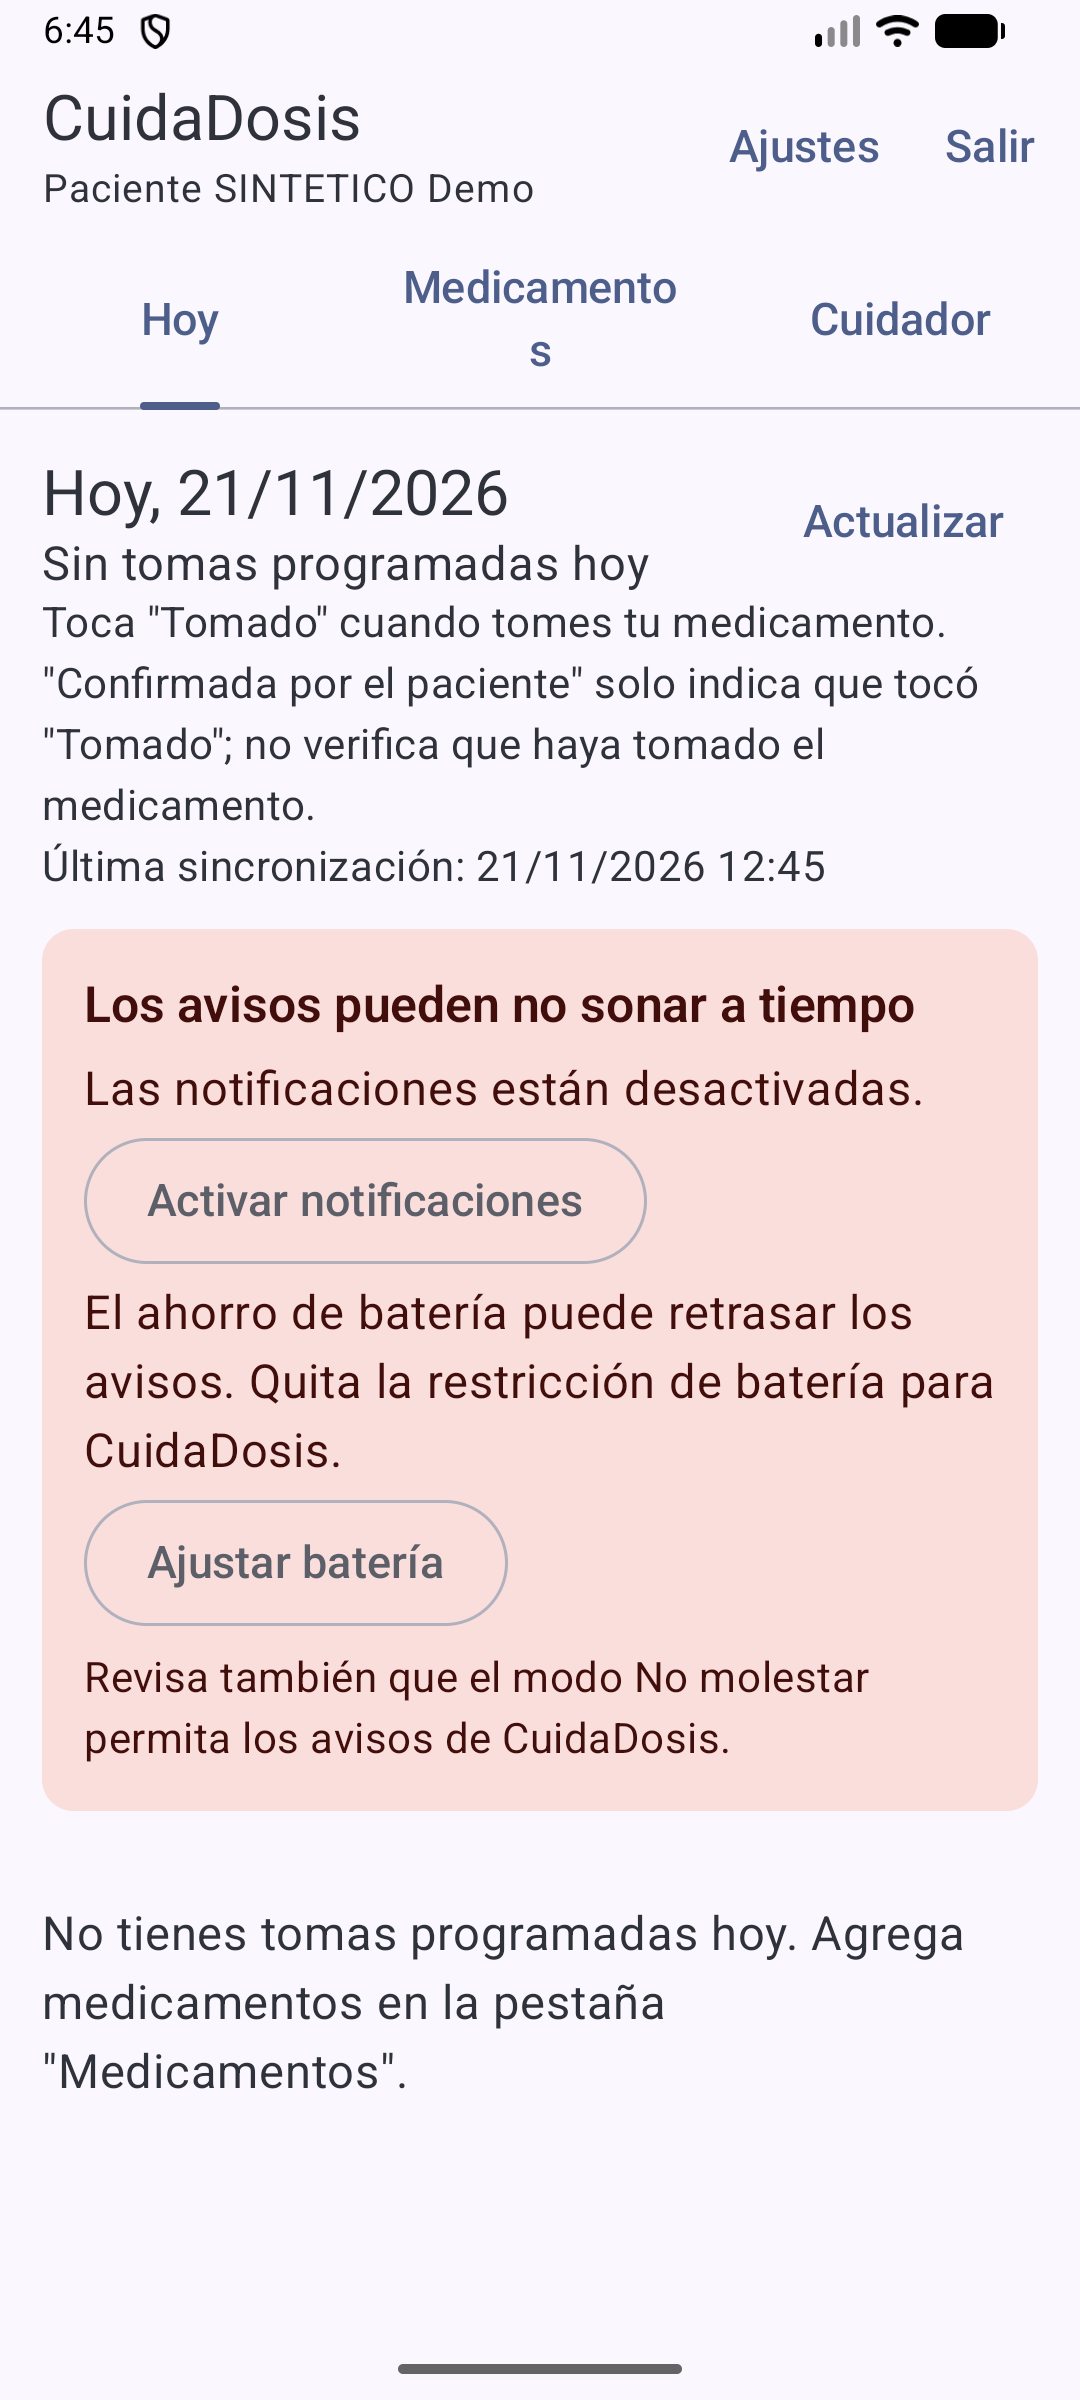
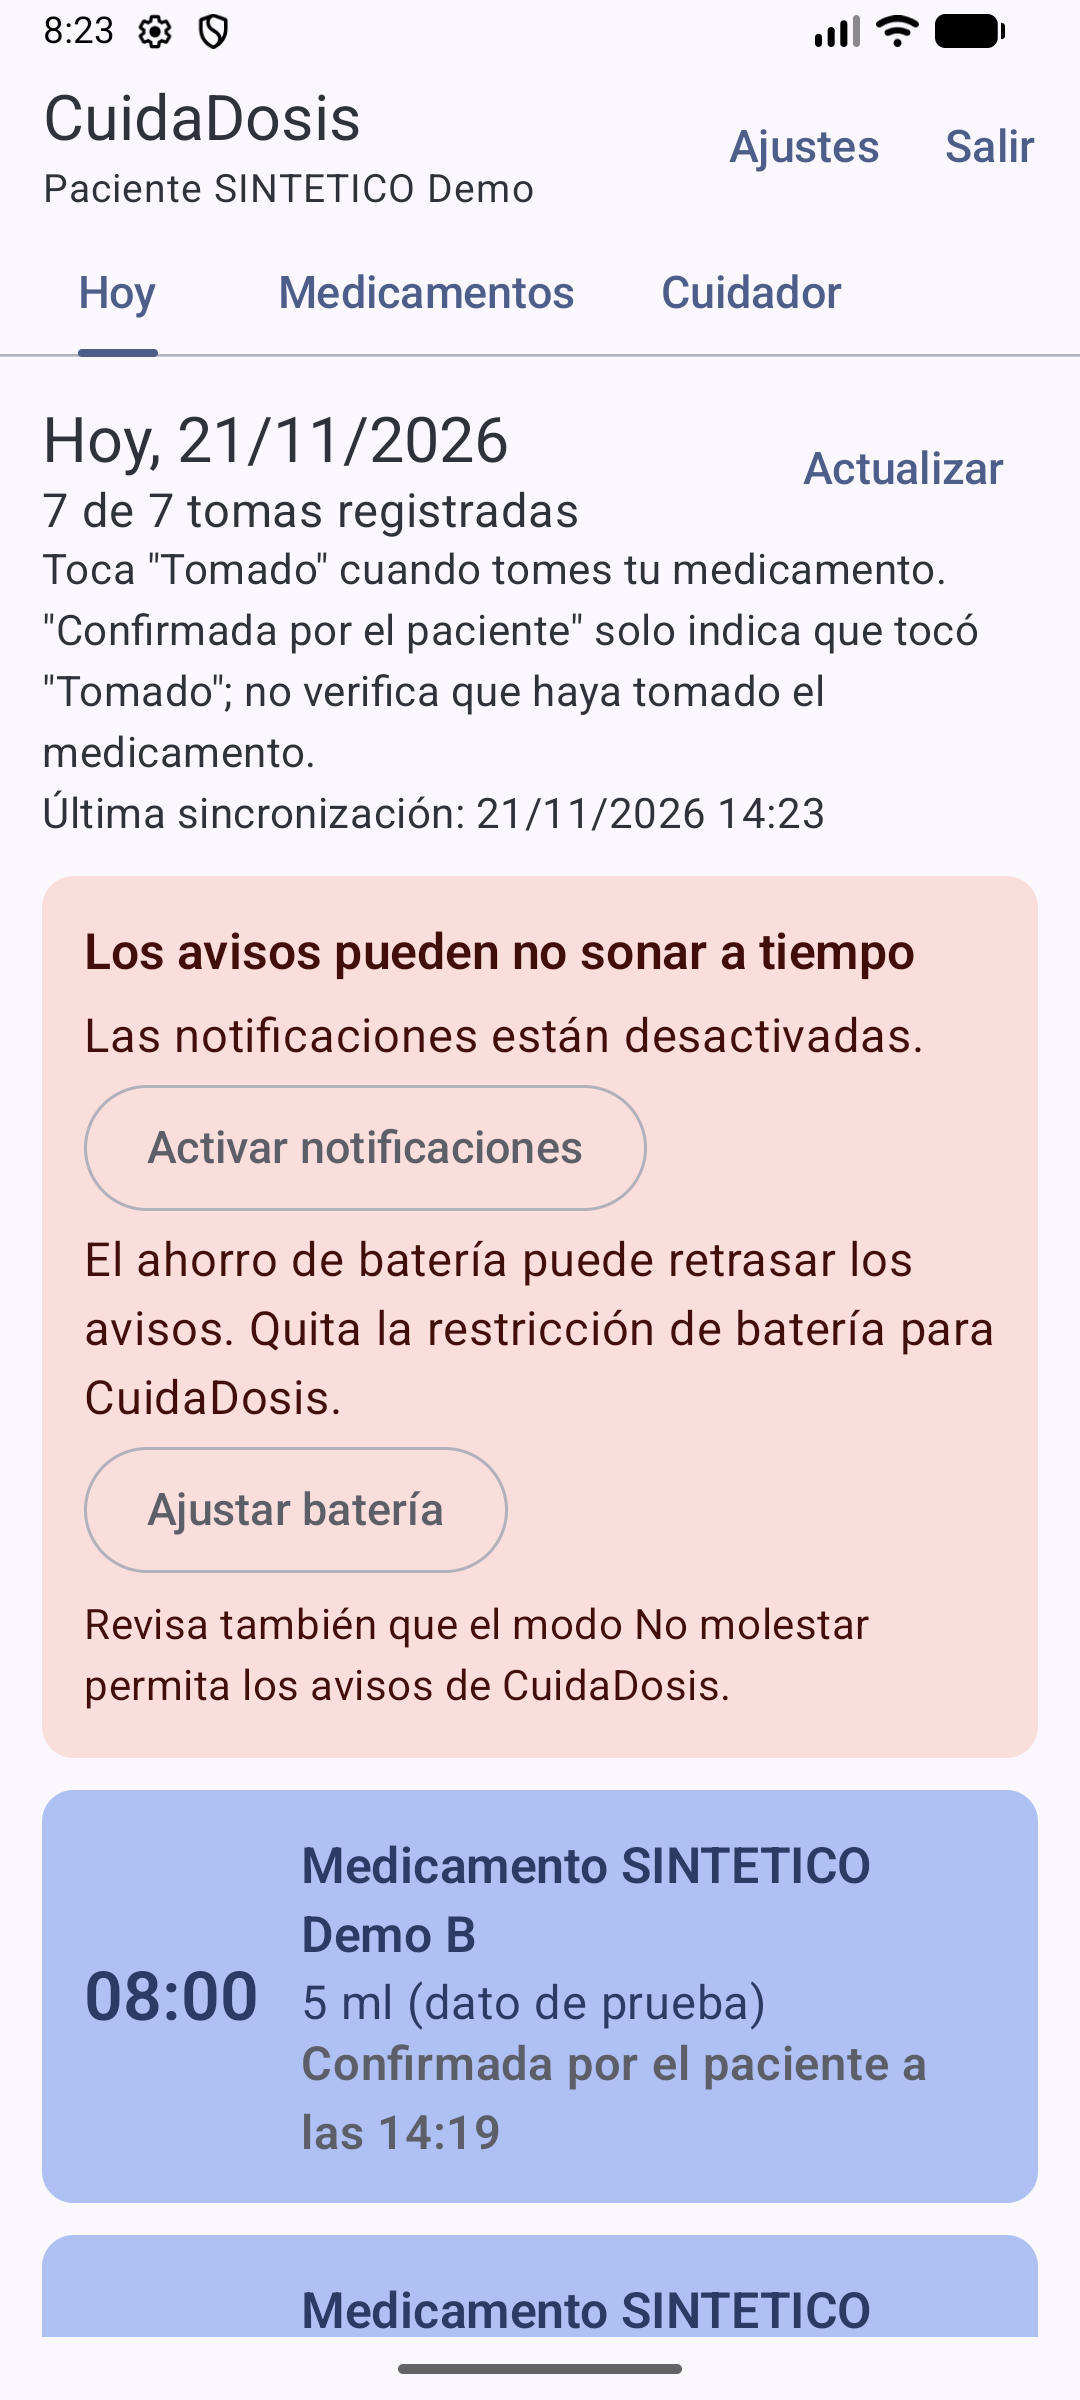
docs(fase8): vuelve a tomar las capturas con la pestaña Medicamentos corregida

diff --git a/docs/evidencias/p4/INDICE.md b/docs/evidencias/p4/INDICE.md
@@ -46,6 +46,7 @@ Script: `api/tests/run_api_tests.php` (casos API-01 a API-27: registro y sesión
 | `15b_letra_grande_cuidador.png` | Detalle del cuidador con la letra del sistema al 130 % |
 | `15c_alarma_cuidador.png` | Notificación de la alarma del cuidador a T + 30 |
 | `16_ultima_sincronizacion.png` | Lista del cuidador con la última sincronización |
-| `17_modo_sin_red.png` | "Hoy" en modo avión con 3 confirmaciones por enviar |
+| `17_modo_sin_red.png` | "Hoy" en modo avión con confirmaciones por enviar (2 en la versión de la Fase 8) |
+| `18_salir_con_pendientes.png` | "Salir" bloqueado con confirmaciones sin enviar (Fase 8) |
 
-Nota: 06, 07, 09, 10, 12 y 17 se tomaron antes de la corrección c9ea6df, por eso la pestaña "Medicamentos" aparece partida en dos líneas. 03 y las del cuidador ya tienen la corrección.
+Nota: 06, 07, 09, 10, 12 y 17 se volvieron a tomar en la Fase 8 con la pestaña "Medicamentos" ya corregida (c9ea6df). Todas las capturas actuales tienen la corrección. 12 muestra "Sin confirmar" y "Confirmada por el paciente"; "Pendiente" se ve en 13.
